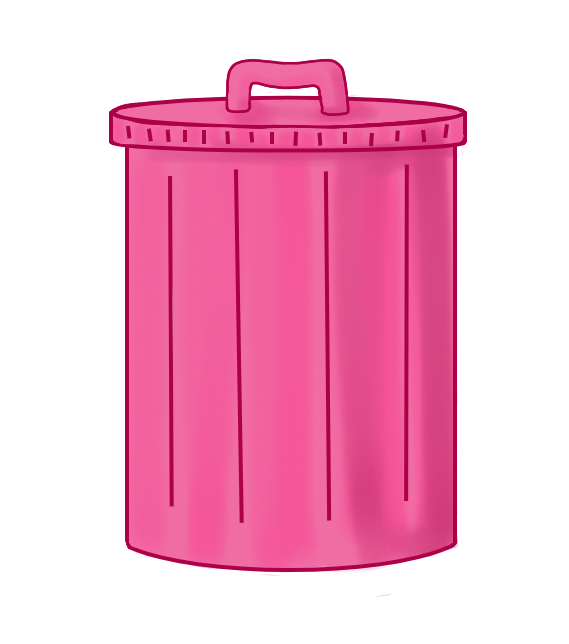
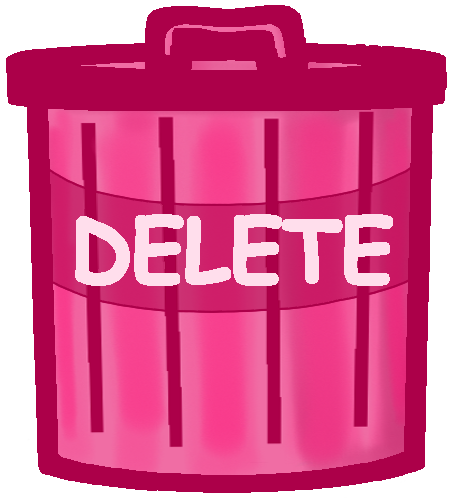
FInishing Touches?

diff --git a/routes/index.js b/routes/index.js
@@ -1,7 +1,7 @@
 var express = require('express');
 var router = express.Router();
 const sqlite3 = require('sqlite3').verbose();
-var sortby = "blog_id DESC";
+var sortby = "blog_time DESC";
 
 /* GET home page. */
 router.get('/', function (req, res, next) {
@@ -28,7 +28,7 @@ router.get('/', function (req, res, next) {
                      blog_title text NOT NULL,
                      blog_txt text NOT NULL,
                      blog_edit boolean not null default(0),
-                     blog_time DATETIME NOT NULL DEFAULT(datetime('now')));
+                     blog_time DATETIME NOT NULL DEFAULT(DATETIME('now')));
 
                       insert into blog (blog_title, blog_txt)
                       values ('First Post', 'This is a great blog'),
@@ -164,9 +164,13 @@ router.post('/sort', (req, res, next) => {
       console.log("Sorting by: " + req.body.Sortby);
 
       if(req.body.Sortby === "newest") {
-        sortby = "blog_id DESC";
+        sortby = "blog_time DESC";
       } else if (req.body.Sortby === "oldest") {
-        sortby = "blog_id ASC";
+        sortby = "blog_time ASC";
+      } else if (req.body.Sortby === "az") {
+        sortby = "blog_title ASC";
+      } else if (req.body.Sortby === "za") {
+        sortby = "blog_title DESC";
       }
       //NOTE: This is dangerous! you need to sanitize input from the user
       //this is ripe for a exploit! DO NOT use this in production :)

diff --git a/public/stylesheets/style.css b/public/stylesheets/style.css
@@ -17,7 +17,7 @@ html, body {
   background-color: pink;
   /* padding: 50px; */
   font: 14px "Lucida Handwriting", cursive;
-  height: 100%
+  height: 99%
 }
 
 a {
@@ -34,8 +34,14 @@ div#sidebar {
   padding-right: 5px;
   background-color: #ffcffd;
   margin-right: 10px;
-  min-width: 15%;
+  width: 15%;
   height: 100%;
+}
+
+img.title_logo{
+  display: inline-block;
+  align-self: left;
+  width: 99%;
 }
 
 #main {
@@ -189,7 +195,7 @@ button.edit_button, button.delete_button{
   background-color: transparent;
   border: none;
   border-width: 0px;
-  padding: 0px;
+  padding: 5pt;
   margin: 0px;
   border-radius: 0px;
 }
@@ -197,7 +203,7 @@ button.edit_button, button.delete_button{
 img.edit_img, img.delete_img{ 
   background-color: none;
   border: none;
-  height: 30pt;
+  max-height: 20pt;
 }
 
 div#top {

diff --git a/README.md b/README.md
@@ -39,3 +39,41 @@ I figured out how to implement the update and delete functions. It worked exactl
 <div>
 <img src="progress3.png" alt="Current Design with Up-date and Delete">
 <div>
+
+## Finishing Touches
+Because the semester is nearing a close, and my website is currently very lovely to look at, I think I have found a good stopping point. So I am halting work, unfortunately(this has been the only final project I enjoy working on), so that I can focus my attention elsewhere.
+
+### The finishing touches I added include: 
+- A logo in the sidebar:
+<img src="public/images/logo_3.png" alt="logo" height = "100pt">- 
+- A cute edit button <img src="public/images/Edit_pencil.png" alt="logo" height="100pt"> 
+- A cute delete button <img src="public/images/Delete_trash.png" alt="logo" height="100pt"> 
+
+Retrospectively, I shouldn't have detailed the buttons so much or added text. You can't see that much when they are 30pt.
+
+### The Finished Product
+
+<div>
+<img src="progress4.png" alt="Current Design with Up-date and Delete">
+<div>
+<div>
+<img src="progress4_edit.png" alt="Current Design with Up-date and Delete">
+An example of the edit button working as intended :)
+<div>
+
+### What I would have loved to add, had I had the time
+ - User-based Authentication
+ - Images in the posts
+ - Use cookies to remember scroll position
+ - Have the selected option on the sort-by drop down reflect the current sorting method(it always resets to Newest) 
+ - Javascript and CSS to add hover and onclick events to give it that interactive feel.
+ - Edit's close on page refresh
+ - More pages to click to through the side bar
+ - Quiet music in the background
+ - Make it so the cancel button can cancel if contents are empty
+
+ ## Notes about the Class
+
+Professor Panter, I love this class. But I also love the concept of website design. I feel as though the course work and materials were well aligned up until about week seven. The Typescript project was very difficult. We were expected to write about using typescript for someone who understood javascript, which we did not as that was the reading material for the few weeks the project was assigned. I feel like because of this, most of the students were more focused on writing up this website than learning about javascript. I myself regret getting almost no practice in javascript this semester. Further, I meant it when I said the reading was simply too much to handle. I know many people just do the activities, but assigning insane amounts of reading can encourage those who do want to read to just do the participation activities and get the points. The participation points are actually a really great measure of how difficult a reading will be. Long story short, I wish the assignments were better aligned with the readings during the second half of class. Now that that's all out of the way: the class is so fun. I spent so many hours doing independent research in this class, I cared enough about this class to learn on my own how to build and design websites. You're a wonderful and kind professor, and you're extremely gracious when it comes to grading. I genuinely enjoyed what I got to learn and create in this class. I hope it continues to be taught, and I hope that my notes can make it a more enjoyable class for other students in the future.
+
+I know this can all go in an evaluation, but I'll do both. I wanted you to know how I felt.
